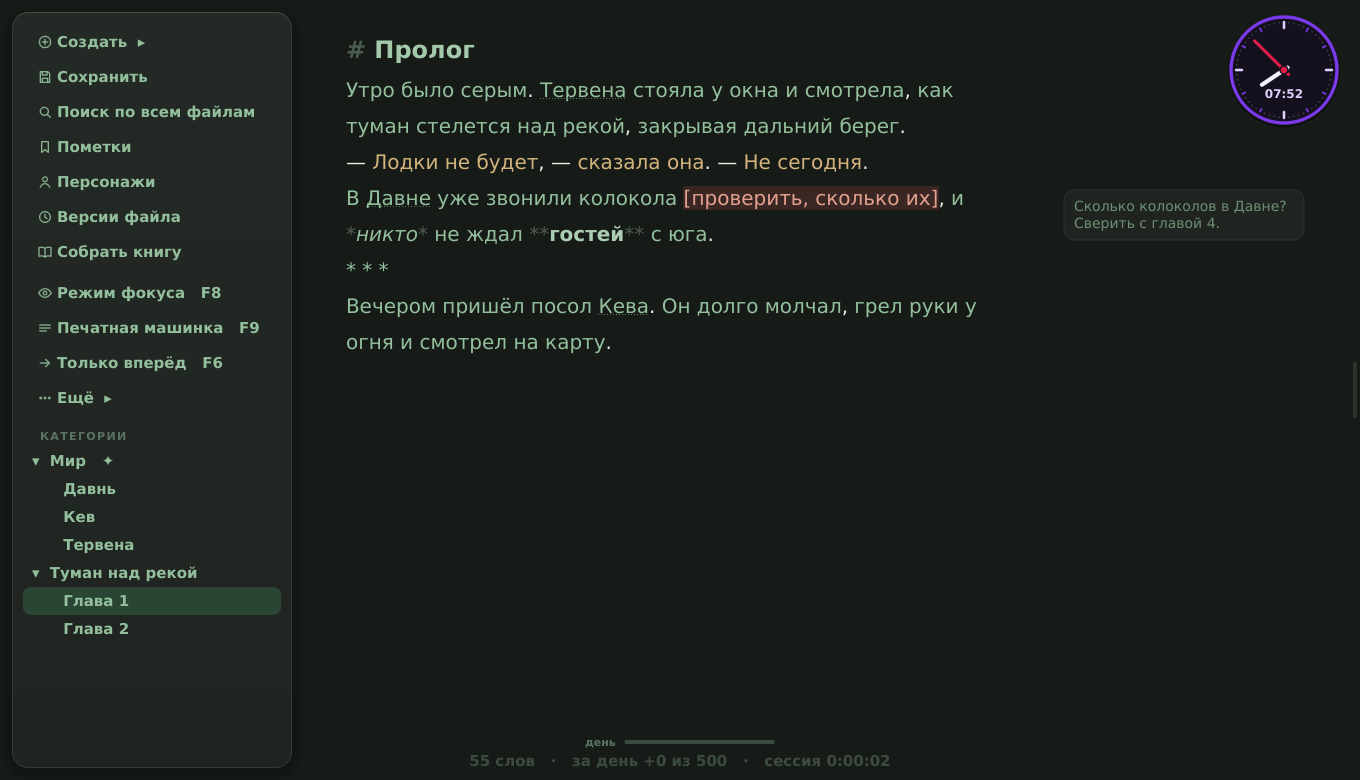
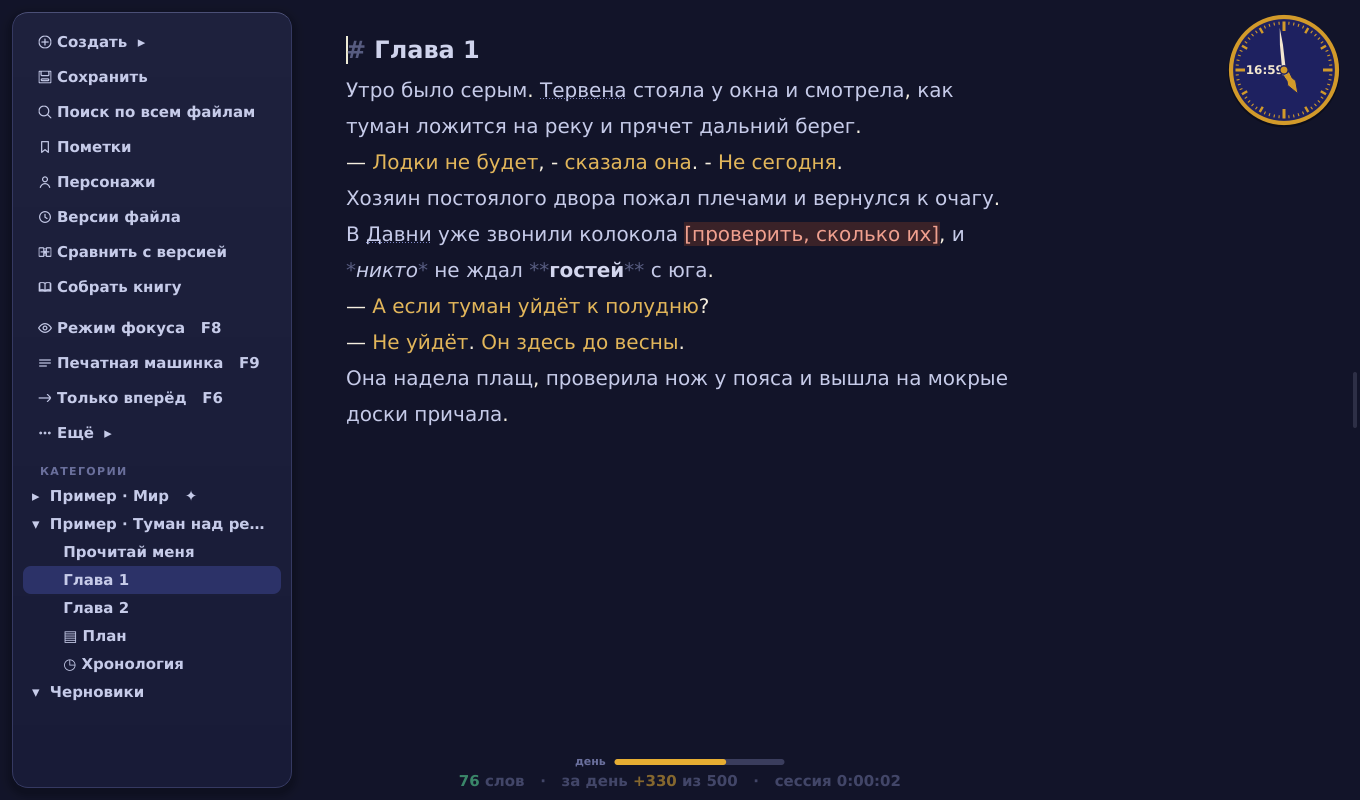
Страница проекта: шапка, кнопки скачивания, свежие снимки; кубики не заезжают на борт стола
- docs/banner.png - ласка, название и кубики KiriFesTung
- README: таблица «Скачать» со ссылками прямо на файлы, короткий список возможностей,
  полный - под спойлером; снимки в теме «Индиго и охра», дневной и стол с кубиками
- ссылки на релизы и pipx - на GitHub
- стол для бросков: борт учитывает раму и перспективу, кость не обрезается краем

Claude-Session: https://claude.ai/code/session_01S7PhmJQgLmFb8cBEfDmxmN

diff --git a/stungkir/dicetable.py b/stungkir/dicetable.py
@@ -208,7 +208,9 @@ class DiceTable(QWidget):
                 body.vz = 0.0
         body.x += body.vx * dt
         body.y += body.vy * dt
-        for axis, low, high in (("x", r, w - r), ("y", r, h - r)):
+        # борт: деревянная рамка (10 точек) плюс сама кость - в перспективе углы выходят за radius
+        edge = 12 + r * (1.0 if coin else 1.3)
+        for axis, low, high in (("x", edge, w - edge), ("y", edge, h - edge)):
             value, speed = getattr(body, axis), getattr(body, "v" + axis)
             if (value < low and speed < 0) or (value > high and speed > 0):
                 setattr(body, axis, low if value < low else high)

diff --git a/README.md b/README.md
@@ -1,12 +1,45 @@
-<img src="docs/screenshots/icon.png" width="96" align="right" alt="">
+<p align="center"><img src="docs/banner.png" alt="StungKir - писательский блокнот для длинных текстов"></p>
 
-# StungKir
+<p align="center">
+<a href="https://github.com/KiriFestung/StungKir/releases/tag/windows-latest"><b>Windows</b></a> ·
+<a href="https://github.com/KiriFestung/StungKir/releases/tag/linux-latest"><b>Linux (Flatpak)</b></a> ·
+<a href="https://github.com/KiriFestung/StungKir/releases/tag/android-latest"><b>Android</b></a> ·
+<a href="docs/РУКОВОДСТВО.md">Руководство</a> ·
+<a href="CHANGELOG.md">Что нового</a>
+</p>
 
-Писательский блокнот для длинных текстов: главы по папкам, справочник мира с подсказками прямо в тексте, заметки на полях, версии, сборка книги в PDF, Word и EPUB. Тёмная тема по умолчанию, днём — светлая «бумага», между ними плавный переход.
+Блокнот для тех, кто пишет книгу, а не заметки: главы по папкам, справочник мира с подсказками прямо в тексте, заметки на полях, версии каждой главы и сборка книги в PDF, Word и EPUB. Тексты - обычные `.txt` в твоей папке: без аккаунтов, облаков и интернета. С телефоном - через Syncthing и своё приложение для Android.
 
 ![Главное окно](docs/screenshots/main-dark.png)
 
+## Скачать
+
+| Где | Что скачать | |
+|---|---|---|
+| **Windows 10 и 11** | [StungKir-Setup-1.0.0.exe](https://github.com/KiriFestung/StungKir/releases/download/windows-latest/StungKir-Setup-1.0.0.exe) | установщик |
+| **Windows, с флешки** | [StungKir-Windows-portable.zip](https://github.com/KiriFestung/StungKir/releases/download/windows-latest/StungKir-Windows-portable.zip) | без установки и без прав администратора, тексты - на флешке |
+| **Linux** | [StungKir.flatpak](https://github.com/KiriFestung/StungKir/releases/download/linux-latest/StungKir.flatpak) | любой дистрибутив; для Debian и Ubuntu есть ещё `install.sh` (ниже) |
+| **Android** | [StungKir-Android.apk](https://github.com/KiriFestung/StungKir/releases/download/android-latest/StungKir-Android.apk) | пишет в ту же папку, что и компьютер; [как связать](docs/ТЕЛЕФОН.md) |
+
+Сборки обновляются сами после каждого изменения и перед выкладкой проходят больше трёхсот проверок - и на Linux, и на Windows.
+
 ## Что умеет
+
+- **Писать.** Главы и категории - обычные файлы; автосохранение; подсветка реплик, знаков, повторов, пометок `[ ]` и орфографии; режимы фокуса, печатной машинки и «только вперёд»; цели на день и на главу, серия дней подряд.
+- **Помнить мир.** Справочник имён и терминов с подсказкой при наведении и падежами («Тервена», «Тервены», «Тервеной»); кто в какой главе; доска сюжета на пробке с булавками и нитками; хронология в своём летоисчислении; заготовки для бестиария, государств, народов, магии.
+- **Править.** Версии каждой главы и сравнение рядом с текстом; найти и заменить во всех главах по всем падежам; свои слова-костыли; ритм предложений; кто говорит в длинных диалогах; чтение вслух.
+- **Не потерять.** Точки возврата всей книги, резервные копии каждый день и раз в неделю на флешку, своя корзина, запасной файл набранного, пароль на все тексты.
+- **Собрать книгу.** PDF, Word, EPUB, FB2 и текст по шаблонам - от рукописи для издательства до самиздата; обложка; «как увидит читатель» на странице A5, телефоне и читалке.
+- **Отвлечься с пользой.** Кубики d4-d100 на столе для бросков (кость, металл, дуб, индиго), монетка «ворон или ласка», рулетка писательских вызовов, таймер с лаской в колесе, антистресс.
+- **Выглядеть по-своему.** Десять тем (основная - индиго и охра, днём - светлая «бумага»), своя картинка под текстом, шрифты Literata и PT Serif, свои горячие клавиши.
+
+| | |
+|---|---|
+| ![Дневная тема](docs/screenshots/main-day.png) | ![Кубики на столе](docs/screenshots/dice.png) |
+| ![Панели](docs/screenshots/panels.png) | ![Панель рядом](docs/screenshots/beside.png) |
+
+<details>
+<summary><b>Всё по пунктам</b></summary>
 
 - **Главы и категории.** Каждая папка — категория, каждая глава — обычный `.txt`. Никакой базы данных: тексты открываются чем угодно и переживут сам блокнот.
 - **Автосохранение.** Сохраняет на паузе в наборе (3 секунды) и не реже раза в 30 секунд, если печатаешь без остановки. Раз в 10 минут кладёт версию в историю главы.
@@ -37,10 +70,7 @@
 - Таймер с лаской, бегущей в колесе, **объёмные кубики** d4–d100 со стуком по столу (d100 - двумя костями), монетка «ворон или ласка» со звоном (и иногда на ребро) и **«Рандомайзеры»**: стол для бросков с кубиками из кости, металла, дуба и смолы, монетка на стол, число, вариант из списка, персонаж или термин, рулетка со ста писательскими вызовами от безобидных до адища. Антистресс по F12: пупырка, мячик, спиннер, песок, тумблеры. Звук печатной машинки и напоминание дать отдых глазам - по желанию.
 - Большие главы (сотни тысяч слов) открываются за пару секунд, смена темы — мгновенно.
 
-| | |
-|---|---|
-| ![Панели](docs/screenshots/panels.png) | ![Панель рядом](docs/screenshots/beside.png) |
-| ![Дневная тема](docs/screenshots/main-day.png) | ![Цвета и темы](docs/screenshots/colors.png) |
+</details>
 
 Подробно обо всём — в [руководстве](docs/РУКОВОДСТВО.md).
 
@@ -57,9 +87,10 @@ bash install.sh
 
 ### Flatpak (любой Linux)
 
-Готовый `.flatpak` лежит в [релизах](https://codeberg.org/KiriFesTung/StungKir/releases):
+Готовый `.flatpak` лежит в [релизах](https://github.com/KiriFestung/StungKir/releases/tag/linux-latest):
 
 ```bash
+flatpak remote-add --user --if-not-exists flathub https://flathub.org/repo/flathub.flatpakrepo
 flatpak install --user StungKir.flatpak
 flatpak run page.codeberg.kirifestung.StungKir
 ```
@@ -68,7 +99,7 @@ flatpak run page.codeberg.kirifestung.StungKir
 
 ### Windows 10 и 11
 
-Скачать `StungKir-Setup-1.0.0.exe` из [релизов](https://codeberg.org/KiriFesTung/StungKir/releases) и запустить. Словарь и шрифты уже внутри. Windows может предупредить «неизвестный издатель» — программа не подписана платным сертификатом; «Подробнее → Выполнить в любом случае».
+Скачать `StungKir-Setup-1.0.0.exe` из [релизов](https://github.com/KiriFestung/StungKir/releases/tag/windows-latest) и запустить. Словарь и шрифты уже внутри. Windows может предупредить «неизвестный издатель» — программа не подписана платным сертификатом; «Подробнее → Выполнить в любом случае».
 
 Переносная версия для флешки (без установки и без прав администратора): `StungKir-Windows-portable.zip` - распаковать на флешку и запускать `StungKir.exe`. Пока рядом с ним лежит `portable.txt`, тексты, копии и настройки хранятся там же, на флешке, а на чужом компьютере ничего не остаётся.
 
@@ -77,7 +108,7 @@ flatpak run page.codeberg.kirifestung.StungKir
 ### Через pip
 
 ```bash
-pipx install git+https://codeberg.org/KiriFesTung/StungKir.git
+pipx install git+https://github.com/KiriFestung/StungKir.git
 ```
 
 macOS официально не поддерживается.
@@ -101,7 +132,7 @@ stungkir --test              # после install.sh
 python3 -m stungkir --test   # из папки с исходниками
 ```
 
-Больше сотни автотестов: сохранение, кодировки, шифрование, справочник, сборка книги, импорт, цвета, автосохранение. Тесты работают во временной папке и не трогают ваши тексты и настройки. На Codeberg они запускаются при каждом изменении кода.
+Больше трёхсот автотестов: сохранение, кодировки, шифрование, справочник, сборка книги, импорт, цвета, автосохранение, кубики. Тесты работают во временной папке и не трогают ваши тексты и настройки. На GitHub они запускаются при каждом изменении кода - на Linux и на Windows.
 
 ## Лицензия и авторы
 
